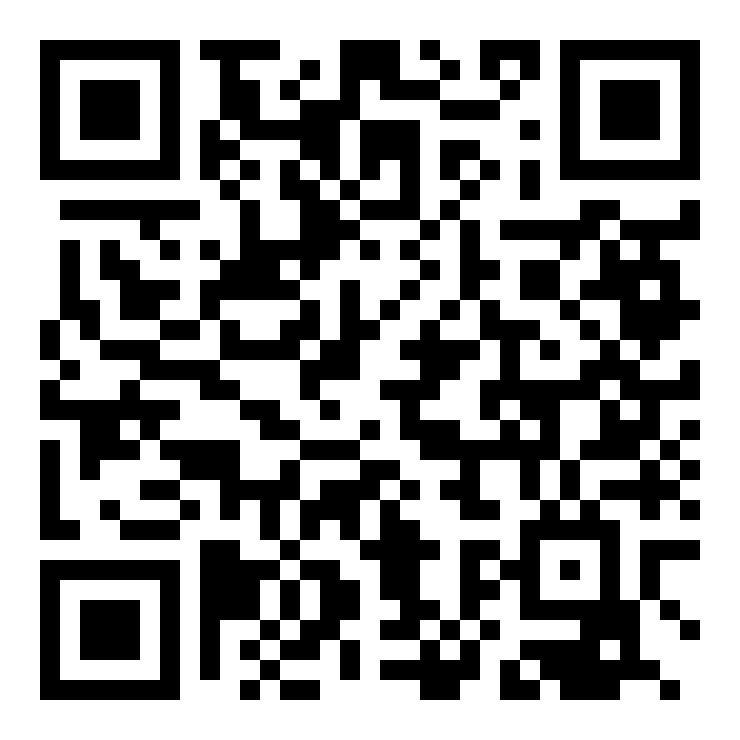
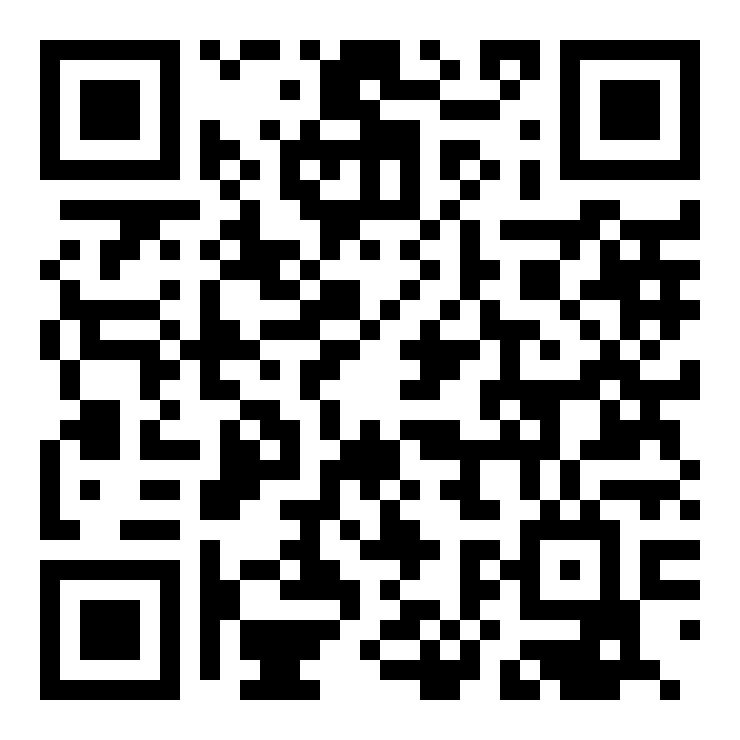
minor changes

diff --git a/static/client/script.js b/static/client/script.js
@@ -1,5 +1,4 @@
-const socket = new WebSocket("ws://192.168.188.23:46551/ws");  
-
+const socket = new WebSocket("ws://192.168.188.23:35779/ws");  
 
 console.log('attempting websocket connection');
 
@@ -20,15 +19,29 @@ socket.onerror = (error) => {
   console.log('socket error: ', error);
 }
 
+function sendMouse(type, dx, dy) {
+
+  socket.send(JSON.stringify({
+    Type: type,
+    dx: ~~dx,
+    dy: ~~dy
+  }));
+
+}
 
 
-// mouse + touch detection
+//touch detection
+
+var mouse = false; //true if touched on touchpad obj
+
 
 const diffClick = 400;
-const diffDownUp = 190;
+const diffDownUp = 400;
 const diffMouseMovement = 100;
 
-var lastMouseMove = new Date(); 
+var lastMouseMove = new Date();
+var lastMouseScroll = new Date();
+
 var lastClick = new Date();
 var toggle = false;
 
@@ -41,66 +54,87 @@ var lastDY = 0;
 var lastMouseDown = 0;
 var lastMouseUp = 0;
 
+function mouseStatus(n) {
+  mouse = n;
+}
 
+//Mousemovemmouseent
+var src = document.getElementById("touchpad");
 
-
-//Mousemoement
-(function () {
-  document.onmousemove = handleMouseMove;
-  function handleMouseMove(event) {
-    var eventDoc, doc, body;
-
-    //console.log('mouse movement detected');
-
-    event = event || window.event; // IE-ism
-
-    // If pageX/Y aren't available and clientX/Y are,
-    // calculate pageX/Y - logic taken from jQuery.
-    // (This is to support old IE)
-    if (event.pageX == null && event.clientX != null) {
-      eventDoc = (event.target && event.target.ownerDocument) || document;
-      doc = eventDoc.documentElement;
-      body = eventDoc.body;
-
-      event.pageX = event.clientX +
-        (doc && doc.scrollLeft || body && body.scrollLeft || 0) -
-        (doc && doc.clientLeft || body && body.clientLeft || 0);
-      event.pageY = event.clientY +
-        (doc && doc.scrollTop || body && body.scrollTop || 0) -
-        (doc && doc.clientTop || body && body.clientTop || 0);
-
-
-    }
-    document.getElementById("indec").innerHTML = "mouse input detected";
-    document.getElementById("indecx").innerHTML = event.pageX;
-    document.getElementById("indecy").innerHTML = event.pageY;
-
-    
-    if ((new Date() - lastMouseMove) >= diffMouseMovement) {
-      lastX = event.pageX;
-      lastY = event.pageY;
-      lastMouseMove = new Date();
-    }
-    
-
-    let x = event.pageX;
-    let y = event.pageY;
-    let dx = (x - lastX)*2;
-    let dy = (y - lastY)*2;
-
-
-
-    socket.send(JSON.stringify({
-      Type: "mouseMove",
-      dx: dx,
-      dy: dy
-    }));
-
-
-    lastX = x;
-    lastY = y;
+function moveMose(e) {
+  if ((new Date() - lastMouseMove) >= diffMouseMovement) {
+    lastX = e.changedTouches[0].pageX;
+    lastY = e.changedTouches[0].pageY;
+    lastMouseMove = new Date();
   }
-})();
+
+
+  let x = e.changedTouches[0].pageX;
+  let y = e.changedTouches[0].pageY;
+  let dx = (x - lastX) * 2;
+  let dy = (y - lastY) * 2;
+  if (mouse) {
+    sendMouse("mouseMove", dx, dy);
+  }
+}
+
+function scroll(e) {
+  if ((new Date() - lastMouseScroll) >= diffMouseMovement) {
+    lastY = e.changedTouches[0].pageY;
+    lastMouseScroll = new Date();
+  }
+
+  let y = e.changedTouches[0].pageY;
+  let dy = (y - lastY) * 2;
+  if (mouse) {
+    sendMouse("scroll", 0, dy);
+  }
+}
+
+window.addEventListener('touchmove', function (e) {
+
+  document.getElementById("indec").innerHTML = "mouse input detected";
+  // Iterate through the touch points that have moved and log each
+  // of the pageX/Y coordinates. The unit of each coordinate is CSS pixels.
+
+  /*
+  var i;
+  for (i=0; i < e.changedTouches.length; i++) {
+    console.log("touchpoint[" + i + "].pageX = " + e.changedTouches[i].pageX);
+    console.log("touchpoint[" + i + "].pageY = " + e.changedTouches[i].pageY);
+  }
+  */
+
+  if (e.changedTouches.length == 1) {
+    moveMose(e);
+
+  } else if (e.changedTouches.length == 2) {
+    scroll(e);
+  }
+
+
+
+  document.getElementById("indecx").innerHTML = e.changedTouches[0].pageX;
+  document.getElementById("indecy").innerHTML = e.changedTouches[0].pageY;
+
+}, false);
+
+window.addEventListener('touchstart', function (e) {
+  if (mouse) {
+    lastMouseDown = new Date();
+  }
+}, false);
+
+window.addEventListener('touchend', function (e) {
+  lastMouseUp = new Date();
+  let diff = (lastMouseUp - lastMouseDown);
+  if (diff <= diffDownUp) {
+    document.getElementById("mouseC").innerHTML = "click detected";
+    sendMouse("click", 0, 0);
+  }
+
+}, false);
+
 
 /*
 function isTouchScreendevice() {
@@ -112,96 +146,16 @@ if (isTouchScreendevice()) {
 }
 */
 
-function touchHandler(event) {
-  var touches = event.changedTouches,
-    first = touches[0],
-    type = "";
-  switch (event.type) {
-    case "touchstart": type = "mousedown"; break;
-    case "touchmove": type = "mousemove"; break;
-    case "touchend": type = "mouseup"; break;
-    default: return;
-  }
 
-  // initMouseEvent(type, canBubble, cancelable, view, clickCount, 
-  //                screenX, screenY, clientX, clientY, ctrlKey, 
-  //                altKey, shiftKey, metaKey, button, relatedTarget);
-
-  var simulatedEvent = document.createEvent("MouseEvent");
-  simulatedEvent.initMouseEvent(type, true, true, window, 1,
-    first.screenX, first.screenY,
-    first.clientX, first.clientY, false,
-    false, false, false, 0/*left*/, null);
-
-  first.target.dispatchEvent(simulatedEvent);
-  //event.preventDefault();
-}
-
-function click() {
-  document.getElementById("mouseC").innerHTML = "click detected";
-
-  lastClick = new Date();
-  socket.send(JSON.stringify({
-    type: "click"
-  }));
-}
-
-
-window.addEventListener("mouseup", function (event) {
-  document.getElementById("mouseB").innerHTML = "mouse up";
-
-  if(toggle){
-    toggle = false;
-    socket.send(JSON.stringify({
-      type: "toggleUp"
-    }));
-  }
-
-  lastMouseUp = new Date();
-  let diff = (lastMouseUp - lastMouseDown);
-  if (diff <= diffDownUp) {
-    click();
-  }
-
-}, false);
-
-
-window.addEventListener("mousedown", function (event) {
-  document.getElementById("mouseB").innerHTML = "mouse down";
-  lastMouseDown = new Date();
-
-  let diff = (new Date - lastClick);
-  if (diff <= diffClick) {
-    toggle = true;
-    socket.send(JSON.stringify({
-      type: "toggle"
-    }));
-  }
-  console.log('mouseDown ' + lastMouseDown)
-}, false);
-
-
-
-
-function init() {
-  document.addEventListener("touchstart", touchHandler, false);
-  document.addEventListener("touchmove", touchHandler, false);
-  document.addEventListener("touchend", touchHandler, false);
-  document.addEventListener("touchcancel", touchHandler, false);
-}
-
-init()
 
 /*
-
 document.getElementById("swtch").addEventListener('change', e => {
 
   if(e.target.checked){
     document.getElementById("demo").innerHTML = "Hello World";
   }
 
-  
-
 });
-
 */
+
+

diff --git a/static/client/index.html b/static/client/index.html
@@ -1,8 +1,7 @@
 <head>
     <meta charset="utf-8">
     <meta name="viewport" content="width=device-width, initial-scale=1.0">
-    <title>Beschreibung der Seite (erscheint in der Titelzeile des Browsers)</title>
-    <script language="javascript" type="text/javascript" src="script.js"></script>
+    <title>Beschreibung der Seite (erscheint in der Titelzeile des Browsers)</title>    <script language="javascript" type="text/javascript" src="script.js"></script>
     <link rel="stylesheet" href="style.css">
 </head>
   <body>
@@ -16,8 +15,11 @@
     <p id = "mouseB"></p>
     <p id = "mouseC"></p>
     <p id = "mouseDC"></p>
+    <p id = "multiT"></p>
     
     <p id = "demo"> "lel"</p>
+
+    <div id="touchpad"ontouchstart="mouseStatus(true);" ontouchend="mouseStatus(false)"; ></div>
 
   </body>
 </html>

diff --git a/static/client/style.css b/static/client/style.css
@@ -64,3 +64,9 @@
   body {
     position: fixed; 
    }
+
+   div{
+    margin: 80px;
+    height: 400px;        
+    background: orange;
+}  

diff --git a/controller.go b/controller.go
@@ -117,6 +117,8 @@ func reader(conn *websocket.Conn) {
 			mouseMove(msg.DX, msg.DY)
 		case "click":
 			robotgo.MouseClick()
+		case "scroll":
+			robotgo.ScrollMouse(msg.DY, "up")
 		case "toggle":
 			robotgo.MouseToggle("down", "left")
 		case "toggleUp":
@@ -161,6 +163,7 @@ func main() {
 		addr := GetOutboundIP().String() + ":" + strconv.Itoa(listener.Addr().(*net.TCPAddr).Port)
 		parsesAdressToJs(addr)
 		createQr(addr + "/client")
+		open("http://" + addr + "/client")
 		open("http://" + addr + "/server")
 		fmt.Println("server started", addr)
 		panic(http.Serve(listener, nil))
